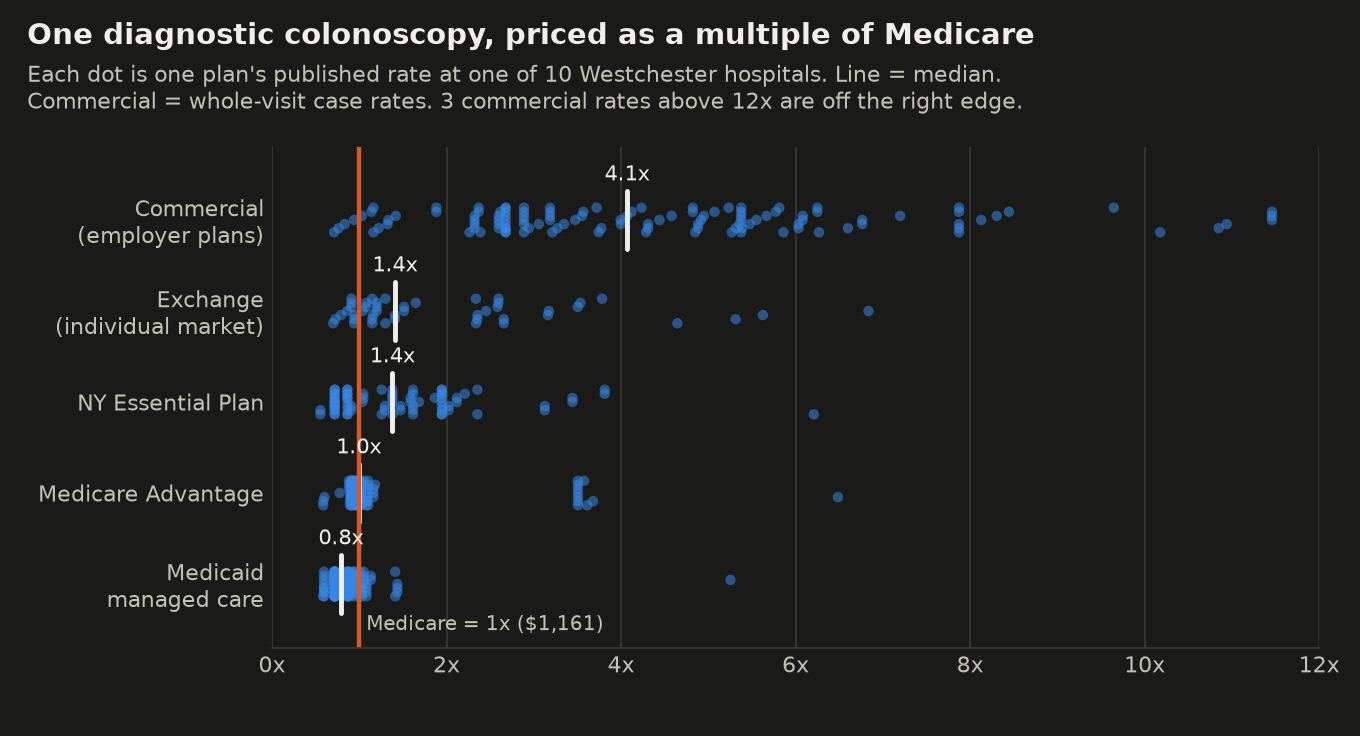
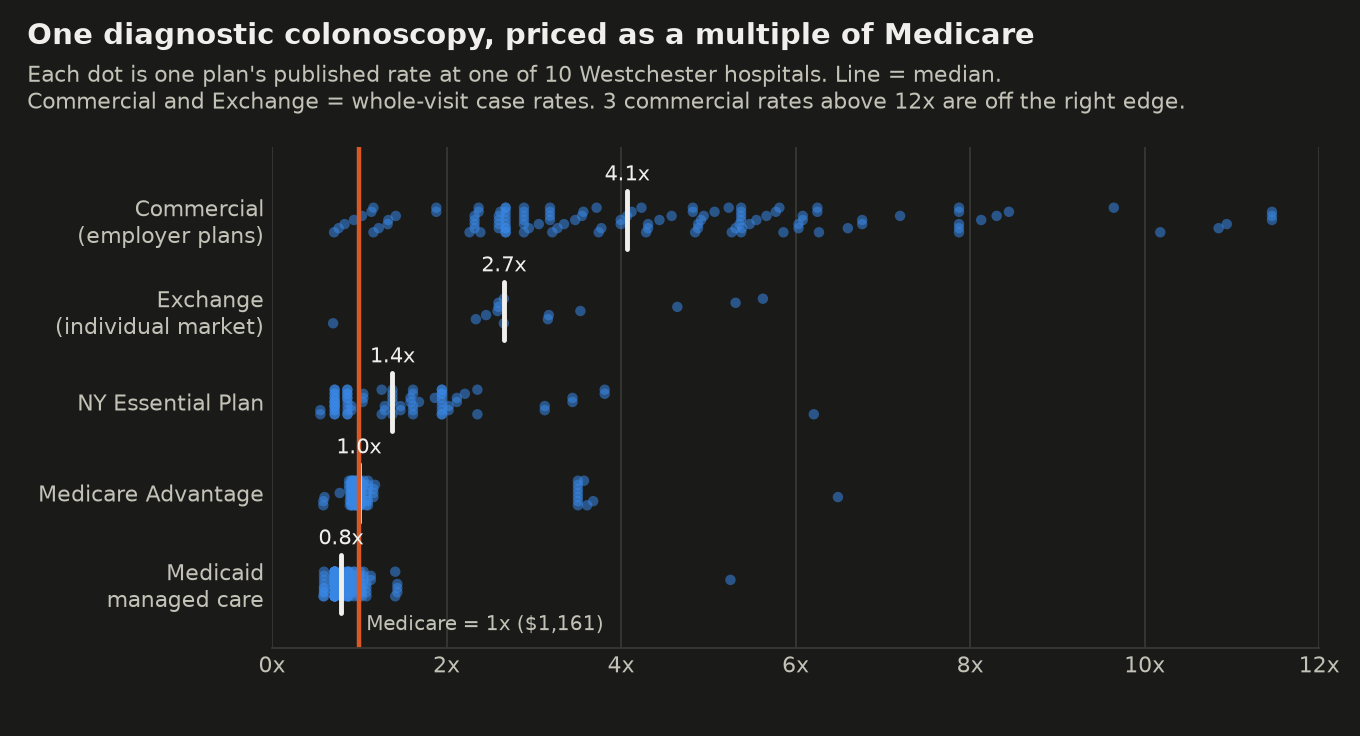
Compare Exchange plans on case rates only; add patient deductible note
Exchange products publish both whole-visit case rates and single fee-schedule
lines, like commercial plans. Mixing them put the Exchange colonoscopy median at
1.4x Medicare; case rates alone give 2.7x (14 rates, 7 hospitals). Adds a test
that Commercial and Exchange comparisons use case rates only.

diff --git a/src/analysis.py b/src/analysis.py
@@ -6,11 +6,14 @@ dollars here, and no blanks are filled. Prices are expressed as a multiple of wh
 traditional Medicare pays the same hospital for the same code (OPPS, wage-adjusted), which
 puts a $950 procedure and a $1,960 procedure on one scale.
 
-Commercial comparisons use case rates only (one price for the whole outpatient visit).
-Fee-schedule lines price a single chargemaster line, so mixing them in would compare a
-whole visit at one hospital with one line of the bill at another. Medicare Advantage and
-Medicaid plans are almost all paid by fee schedule tied to government rates, so every
-basis is kept for them. The `headline` view below applies that rule.
+Commercial and Exchange comparisons use case rates only (one price for the whole
+outpatient visit). Fee-schedule lines price a single chargemaster line, so mixing them in
+would compare a whole visit at one hospital with one line of the bill at another. Exchange
+products are commercial products sold on the individual market, so they get the same rule;
+with every basis kept, the Exchange colonoscopy median was 1.4x Medicare, but its case
+rates alone are 2.7x. Medicare Advantage, Medicaid, and Essential Plan products are almost
+all paid by fee schedule tied to government rates, so every basis is kept for them. The
+`headline` view below applies that rule.
 
 Outputs in results/:
 - segment_summary.csv        each code x segment: median % of Medicare across all plans
@@ -29,11 +32,14 @@ import duckdb
 ROOT = Path(__file__).resolve().parents[1]
 RESULTS = ROOT / "results"
 MIN_HOSPITALS_FOR_INDEX = 3
+# Segments compared on whole-visit case rates only (see module docstring)
+CASE_RATE_SEGMENTS = "('Commercial', 'Exchange (individual/small group)')"
+CASE_RATE_RULE = f"(segment NOT IN {CASE_RATE_SEGMENTS} OR price_basis = 'case rate')"
 
-HEADLINE_VIEW = """
+HEADLINE_VIEW = f"""
     CREATE OR REPLACE TEMP VIEW headline AS
     SELECT * FROM negotiated
-    WHERE core AND (segment <> 'Commercial' OR price_basis = 'case rate')
+    WHERE core AND {CASE_RATE_RULE}
 """
 
 QUERIES = {

diff --git a/src/figures.py b/src/figures.py
@@ -15,6 +15,8 @@ matplotlib.use("Agg")
 import matplotlib.pyplot as plt  # noqa: E402
 import pandas as pd  # noqa: E402
 
+from analysis import CASE_RATE_RULE  # noqa: E402
+
 ROOT = Path(__file__).resolve().parents[1]
 FIG = ROOT / "docs" / "figures"
 RESULTS = ROOT / "results"
@@ -62,9 +64,9 @@ def finish(fig, ax, t, title, subtitle, name, mode):
 def fig_segments(con, mode):
     """Every plan's diagnostic colonoscopy rate, as a multiple of Medicare, by segment."""
     t = THEMES[mode]
-    df = con.sql("""
+    df = con.sql(f"""
         SELECT segment, pct_of_medicare FROM negotiated
-        WHERE code = '45378' AND (segment <> 'Commercial' OR price_basis = 'case rate')
+        WHERE code = '45378' AND {CASE_RATE_RULE}
     """).df()
     fig, ax = plt.subplots(figsize=(8.5, 4.6))
     fig.subplots_adjust(left=0.2, right=0.97, top=0.8, bottom=0.12)
@@ -88,7 +90,7 @@ def fig_segments(con, mode):
     style(ax, t)
     finish(fig, ax, t, "One diagnostic colonoscopy, priced as a multiple of Medicare",
            "Each dot is one plan's published rate at one of 10 Westchester hospitals. Line = median.\n"
-           f"Commercial = whole-visit case rates. {off_edge} commercial rates above 12x are off the right edge.",
+           f"Commercial and Exchange = whole-visit case rates. {off_edge} commercial rates above 12x are off the right edge.",
            "fig1_segments", mode)
 
 

diff --git a/tests/test_pipeline.py b/tests/test_pipeline.py
@@ -104,3 +104,15 @@ def test_json_nyp_hudson_valley():
 def test_payer_classification(hospital, payer, plan, family, segment):
     got = classify(hospital, payer, plan)
     assert (got["payer_family"], got["segment"]) == (family, segment)
+
+
+@pytest.mark.skipif(not DB.exists(), reason="database not built")
+def test_commercial_and_exchange_compare_case_rates_only():
+    # Single fee-schedule lines would pull the Exchange median down to 1.4x Medicare
+    from analysis import HEADLINE_VIEW
+    con = duckdb.connect(str(DB), read_only=True)
+    con.execute(HEADLINE_VIEW)
+    bases = con.execute("""SELECT DISTINCT price_basis FROM headline
+                           WHERE segment IN ('Commercial', 'Exchange (individual/small group)')""").fetchall()
+    con.close()
+    assert bases == [("case rate",)]

diff --git a/README.md b/README.md
@@ -24,21 +24,23 @@ Hospitals must now publish the prices they negotiate with each insurer. I pulled
 | Diagnostic colonoscopy | Median rate | Multiple of Medicare |
 |---|---|---|
 | Commercial (employer plans, whole-visit rates) | $4,724 | **4.1x** |
-| Exchange (individual market) | $1,637 | 1.4x |
+| Exchange (individual market, whole-visit rates) | $3,084 | 2.7x |
 | NY Essential Plan | $1,602 | 1.4x |
 | Medicare Advantage | $1,155 | **1.0x** |
 | Medicaid managed care | $917 | **0.8x** |
 
-Of these five, commercial pays the most and Medicaid the least for all 11 procedures studied.
+Of these five, commercial pays the most and Medicaid the least for all 11 procedures studied. Commercial and Exchange plans are compared on whole-visit case rates only; the government-program segments are mostly paid by fee schedules tied to government rates, so all their rates are kept ([why](docs/methods.md#which-rows-count-as-the-price)).
 
 <picture>
   <source media="(prefers-color-scheme: dark)" srcset="docs/figures/fig1_segments_dark.png">
-  <img alt="Diagnostic colonoscopy rates as a multiple of Medicare by segment. Commercial median 4.1x, exchange 1.4x, Essential Plan 1.4x, Medicare Advantage 1.0x, Medicaid managed care 0.8x." src="docs/figures/fig1_segments_light.png" width="720">
+  <img alt="Diagnostic colonoscopy rates as a multiple of Medicare by segment. Commercial median 4.1x, exchange 2.7x, Essential Plan 1.4x, Medicare Advantage 1.0x, Medicaid managed care 0.8x." src="docs/figures/fig1_segments_light.png" width="720">
 </picture>
 
 ### 2. The hospital matters: $1,322 to $6,803 for the same procedure
 
 The median commercial price for a diagnostic colonoscopy runs from **$1,322 at St. John's Riverside** to **$6,803 at NYP Westchester**, about 5x apart. Moving one colonoscopy from a ~$6,500 hospital to a ~$3,100 one saves more than Medicare pays for the whole procedure.
+
+**For a patient,** this matters before the deductible is met: in-network, they pay the negotiated rate until then. Screening colonoscopies are generally free in-network under the ACA, but a diagnostic one is not, and the hospital fee alone has a median of about $1,300 at St. John's Riverside versus about $6,800 at NYP Westchester, before the doctor's and anesthesia bills.
 
 <picture>
   <source media="(prefers-color-scheme: dark)" srcset="docs/figures/fig2_hospitals_dark.png">

diff --git a/docs/methods.md b/docs/methods.md
@@ -29,7 +29,7 @@ For price comparisons ([`sql/01_build.sql`](../sql/01_build.sql)):
 1. **Outpatient facility rows with no modifier.** Inpatient rows and professional (physician) rows are excluded, because the Medicare benchmark is the outpatient facility payment.
 2. **Published dollar amounts only.** Percentage and algorithm rates are counted in [`results/coverage.csv`](../results/coverage.csv) but not converted.
 3. **Case rate first.** Several hospitals publish two kinds of rows for the same plan and code: a case rate (one price for the visit) and a fee-schedule line (one line of the bill, such as the procedure room). Medicare's OPPS payment is also one bundled payment per visit, so the case rate is the comparable number. When a plan has both, the case rate is used; fee-schedule rows are used only when a plan has no case rate for that code. The pairs with both are listed in [`results/dual_basis.csv`](../results/dual_basis.csv).
-4. **Commercial comparisons use case rates only.** Medicare Advantage and Medicaid plans are almost all paid by fee schedule tied to government rates, so every basis is kept for them.
+4. **Commercial and Exchange comparisons use case rates only.** Exchange plans are commercial products sold on the individual market and publish both kinds of rows, so they get the same rule. This matters: with every basis kept, the Exchange colonoscopy median is $1,637 (1.4x Medicare), but that mixes 14 case rates (median $3,084) with 30 single fee-schedule lines (median $1,368). Case rates alone give 2.7x (14 rates at 7 hospitals). Medicare Advantage, Medicaid, and Essential Plan products are almost all paid by fee schedule tied to government rates, so every basis is kept for them.
 5. **Duplicate lines.** Some hospitals repeat a rate once per revenue code. Repeats are collapsed to their median. 244 of 9,903 rates (148 of 5,527 core-code rates) had repeats that disagreed, so for those the analyzed value is a median that may not appear in the file (reported by validation check 10). Sensitivity: using the lowest repeat instead of the median moves the commercial colonoscopy median from 4.1x to 3.8x Medicare; using the highest leaves it at 4.1x. The hospital ranking is unchanged except that NYP Westchester and White Plains swap first and second under the highest-repeat version.
 
 ## Medicare benchmark

diff --git a/docs/memo.md b/docs/memo.md
@@ -13,7 +13,7 @@ For a commercial plan, the price of a routine colonoscopy in Westchester depends
 | Diagnostic colonoscopy (45378) | Median rate | Multiple of Medicare | Middle half |
 |---|---|---|---|
 | Commercial (case rates) | $4,724 | 4.1x | 2.7x to 5.8x |
-| Exchange (individual market) | $1,637 | 1.4x | 1.1x to 2.6x |
+| Exchange (individual market, case rates) | $3,084 | 2.7x | 2.6x to 3.4x |
 | NY Essential Plan | $1,602 | 1.4x | 0.9x to 1.9x |
 | Medicare Advantage | $1,155 | 1.0x | 0.9x to 1.0x |
 | Medicaid managed care | $917 | 0.8x | 0.7x to 0.9x |
